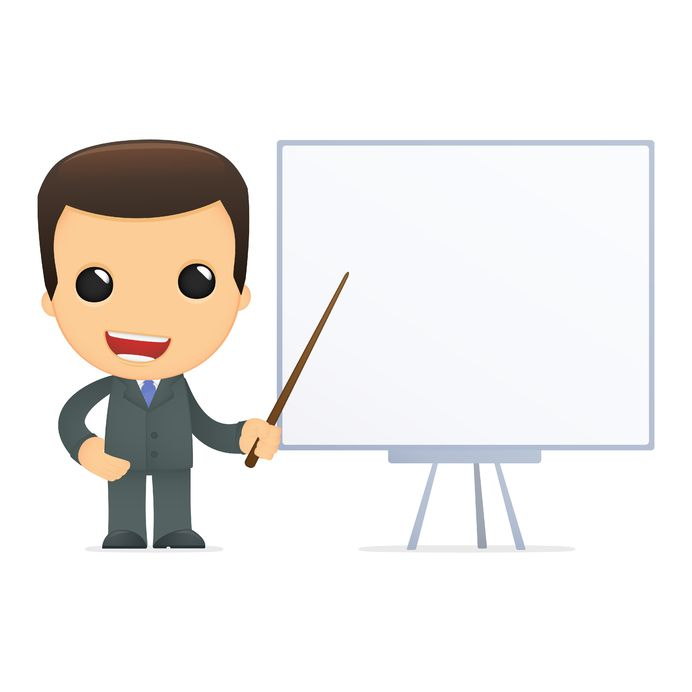
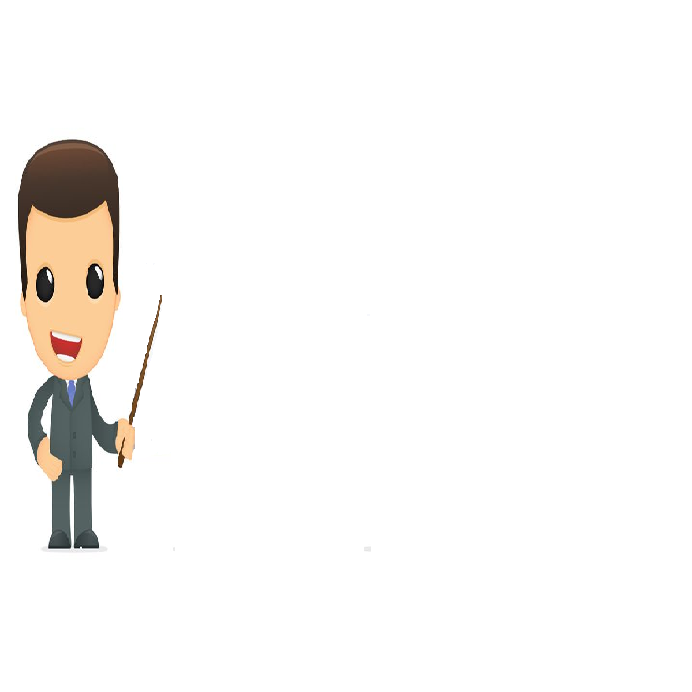
cam

diff --git a/RamosHermanos/Ramos Hermanos/Capas/Interfaz/formProduccion.Designer.cs b/RamosHermanos/Ramos Hermanos/Capas/Interfaz/formProduccion.Designer.cs
@@ -59,9 +59,10 @@
             this.groupBox1.Controls.Add(this.dgvProduccion);
             this.groupBox1.Controls.Add(this.label1);
             this.groupBox1.Controls.Add(this.dtpFechaProduccion);
-            this.groupBox1.Location = new System.Drawing.Point(30, 81);
+            this.groupBox1.Font = new System.Drawing.Font("Microsoft Sans Serif", 8.25F, System.Drawing.FontStyle.Bold, System.Drawing.GraphicsUnit.Point, ((byte)(0)));
+            this.groupBox1.Location = new System.Drawing.Point(185, 58);
             this.groupBox1.Name = "groupBox1";
-            this.groupBox1.Size = new System.Drawing.Size(696, 416);
+            this.groupBox1.Size = new System.Drawing.Size(433, 416);
             this.groupBox1.TabIndex = 0;
             this.groupBox1.TabStop = false;
             this.groupBox1.Text = "Producción";
@@ -71,12 +72,13 @@
             this.txtDescripcion.Location = new System.Drawing.Point(143, 71);
             this.txtDescripcion.Multiline = true;
             this.txtDescripcion.Name = "txtDescripcion";
-            this.txtDescripcion.Size = new System.Drawing.Size(547, 56);
+            this.txtDescripcion.Size = new System.Drawing.Size(278, 56);
             this.txtDescripcion.TabIndex = 100;
             // 
             // label3
             // 
             this.label3.AutoSize = true;
+            this.label3.Font = new System.Drawing.Font("Microsoft Sans Serif", 8.25F, System.Drawing.FontStyle.Regular, System.Drawing.GraphicsUnit.Point, ((byte)(0)));
             this.label3.Location = new System.Drawing.Point(74, 74);
             this.label3.Name = "label3";
             this.label3.Size = new System.Drawing.Size(63, 13);
@@ -94,6 +96,7 @@
             // label2
             // 
             this.label2.AutoSize = true;
+            this.label2.Font = new System.Drawing.Font("Microsoft Sans Serif", 8.25F, System.Drawing.FontStyle.Regular, System.Drawing.GraphicsUnit.Point, ((byte)(0)));
             this.label2.Location = new System.Drawing.Point(61, 22);
             this.label2.Name = "label2";
             this.label2.Size = new System.Drawing.Size(76, 13);
@@ -105,7 +108,7 @@
             this.btnSave.BackgroundImage = ((System.Drawing.Image)(resources.GetObject("btnSave.BackgroundImage")));
             this.btnSave.BackgroundImageLayout = System.Windows.Forms.ImageLayout.Stretch;
             this.btnSave.Font = new System.Drawing.Font("Microsoft Sans Serif", 8.25F, System.Drawing.FontStyle.Regular, System.Drawing.GraphicsUnit.Point, ((byte)(0)));
-            this.btnSave.Location = new System.Drawing.Point(662, 381);
+            this.btnSave.Location = new System.Drawing.Point(393, 381);
             this.btnSave.Name = "btnSave";
             this.btnSave.Size = new System.Drawing.Size(28, 28);
             this.btnSave.TabIndex = 96;
@@ -146,7 +149,7 @@
             this.colCantidad});
             this.dgvProduccion.Location = new System.Drawing.Point(6, 133);
             this.dgvProduccion.Name = "dgvProduccion";
-            this.dgvProduccion.Size = new System.Drawing.Size(684, 242);
+            this.dgvProduccion.Size = new System.Drawing.Size(415, 242);
             this.dgvProduccion.TabIndex = 2;
             // 
             // colIDProducto
@@ -169,6 +172,7 @@
             // label1
             // 
             this.label1.AutoSize = true;
+            this.label1.Font = new System.Drawing.Font("Microsoft Sans Serif", 8.25F, System.Drawing.FontStyle.Regular, System.Drawing.GraphicsUnit.Point, ((byte)(0)));
             this.label1.Location = new System.Drawing.Point(28, 51);
             this.label1.Name = "label1";
             this.label1.Size = new System.Drawing.Size(109, 13);
@@ -177,6 +181,7 @@
             // 
             // dtpFechaProduccion
             // 
+            this.dtpFechaProduccion.Font = new System.Drawing.Font("Microsoft Sans Serif", 8.25F, System.Drawing.FontStyle.Regular, System.Drawing.GraphicsUnit.Point, ((byte)(0)));
             this.dtpFechaProduccion.Format = System.Windows.Forms.DateTimePickerFormat.Short;
             this.dtpFechaProduccion.Location = new System.Drawing.Point(143, 45);
             this.dtpFechaProduccion.Name = "dtpFechaProduccion";
@@ -188,9 +193,13 @@
             // 
             this.AutoScaleDimensions = new System.Drawing.SizeF(6F, 13F);
             this.AutoScaleMode = System.Windows.Forms.AutoScaleMode.Font;
+            this.BackgroundImage = global::RamosHermanos.Properties.Resources.productividad_personal_x21;
+            this.BackgroundImageLayout = System.Windows.Forms.ImageLayout.None;
             this.ClientSize = new System.Drawing.Size(784, 561);
             this.Controls.Add(this.groupBox1);
+            this.MaximizeBox = false;
             this.Name = "formProduccion";
+            this.StartPosition = System.Windows.Forms.FormStartPosition.CenterScreen;
             this.Text = "Registrar Produccion";
             this.Load += new System.EventHandler(this.formProduccion_Load);
             this.groupBox1.ResumeLayout(false);

diff --git a/RamosHermanos/Ramos Hermanos/Properties/Resources.Designer.cs b/RamosHermanos/Ramos Hermanos/Properties/Resources.Designer.cs
@@ -173,9 +173,69 @@ namespace RamosHermanos.Properties {
         /// <summary>
         ///   Busca un recurso adaptado de tipo System.Drawing.Bitmap.
         /// </summary>
+        internal static System.Drawing.Bitmap produccion2 {
+            get {
+                object obj = ResourceManager.GetObject("produccion2", resourceCulture);
+                return ((System.Drawing.Bitmap)(obj));
+            }
+        }
+        
+        /// <summary>
+        ///   Busca un recurso adaptado de tipo System.Drawing.Bitmap.
+        /// </summary>
         internal static System.Drawing.Bitmap produccionback {
             get {
                 object obj = ResourceManager.GetObject("produccionback", resourceCulture);
+                return ((System.Drawing.Bitmap)(obj));
+            }
+        }
+        
+        /// <summary>
+        ///   Busca un recurso adaptado de tipo System.Drawing.Bitmap.
+        /// </summary>
+        internal static System.Drawing.Bitmap produccionback1 {
+            get {
+                object obj = ResourceManager.GetObject("produccionback1", resourceCulture);
+                return ((System.Drawing.Bitmap)(obj));
+            }
+        }
+        
+        /// <summary>
+        ///   Busca un recurso adaptado de tipo System.Drawing.Bitmap.
+        /// </summary>
+        internal static System.Drawing.Bitmap produccionback2 {
+            get {
+                object obj = ResourceManager.GetObject("produccionback2", resourceCulture);
+                return ((System.Drawing.Bitmap)(obj));
+            }
+        }
+        
+        /// <summary>
+        ///   Busca un recurso adaptado de tipo System.Drawing.Bitmap.
+        /// </summary>
+        internal static System.Drawing.Bitmap produccionback3 {
+            get {
+                object obj = ResourceManager.GetObject("produccionback3", resourceCulture);
+                return ((System.Drawing.Bitmap)(obj));
+            }
+        }
+        
+        /// <summary>
+        ///   Busca un recurso adaptado de tipo System.Drawing.Bitmap.
+        /// </summary>
+        internal static System.Drawing.Bitmap productividad_personal_x2 {
+            get {
+                object obj = ResourceManager.GetObject("productividad-personal_x2", resourceCulture);
+                return ((System.Drawing.Bitmap)(obj));
+            }
+        }
+        
+        /// <summary>
+        ///   Busca un recurso adaptado de tipo System.Drawing.Bitmap.
+        /// </summary>
+        internal static System.Drawing.Bitmap productividad_personal_x21 {
+            get {
+                object obj = ResourceManager.GetObject("productividad-personal_x21", resourceCulture);
                 return ((System.Drawing.Bitmap)(obj));
             }
         }

diff --git a/RamosHermanos/Ramos Hermanos/Capas/Interfaz/formProveedor.Designer.cs b/RamosHermanos/Ramos Hermanos/Capas/Interfaz/formProveedor.Designer.cs
@@ -607,6 +607,7 @@
             this.Controls.Add(this.tabProveedor);
             this.DoubleBuffered = true;
             this.Name = "formProveedor";
+            this.StartPosition = System.Windows.Forms.FormStartPosition.CenterScreen;
             this.Text = " ";
             this.Load += new System.EventHandler(this.formProveedor_Load);
             this.tabProveedor.ResumeLayout(false);

diff --git a/RamosHermanos/Ramos Hermanos/Capas/Interfaz/Listados/listProductos.cs b/RamosHermanos/Ramos Hermanos/Capas/Interfaz/Listados/listProductos.cs
@@ -135,6 +135,7 @@ namespace RamosHermanos.Capas.Interfaz.Listados
                 //Conformacion
                 itemsProductoB.CargarDGV(Convert.ToInt32(frmPro.txtIDProd.Text), frmPro.dgvConformacion);
                 //StockProductoB.cargardgvStock(frmPro.dgvStock, frmPro.txtIDProd);
+                this.Close();
 
             }
         }

diff --git a/RamosHermanos/Ramos Hermanos/Capas/Interfaz/Listados/listProveedores.cs b/RamosHermanos/Ramos Hermanos/Capas/Interfaz/Listados/listProveedores.cs
@@ -64,6 +64,7 @@ namespace RamosHermanos.Capas.Interfaz.Listados
                 TelefonoB.CargarTXT(frmP.txtTel, frmP.txtidprov, 2);
 
                 frmP.tabProveedor.SelectedTab = frmP.tabInformacion;
+                this.Close();
 
             }
         }
